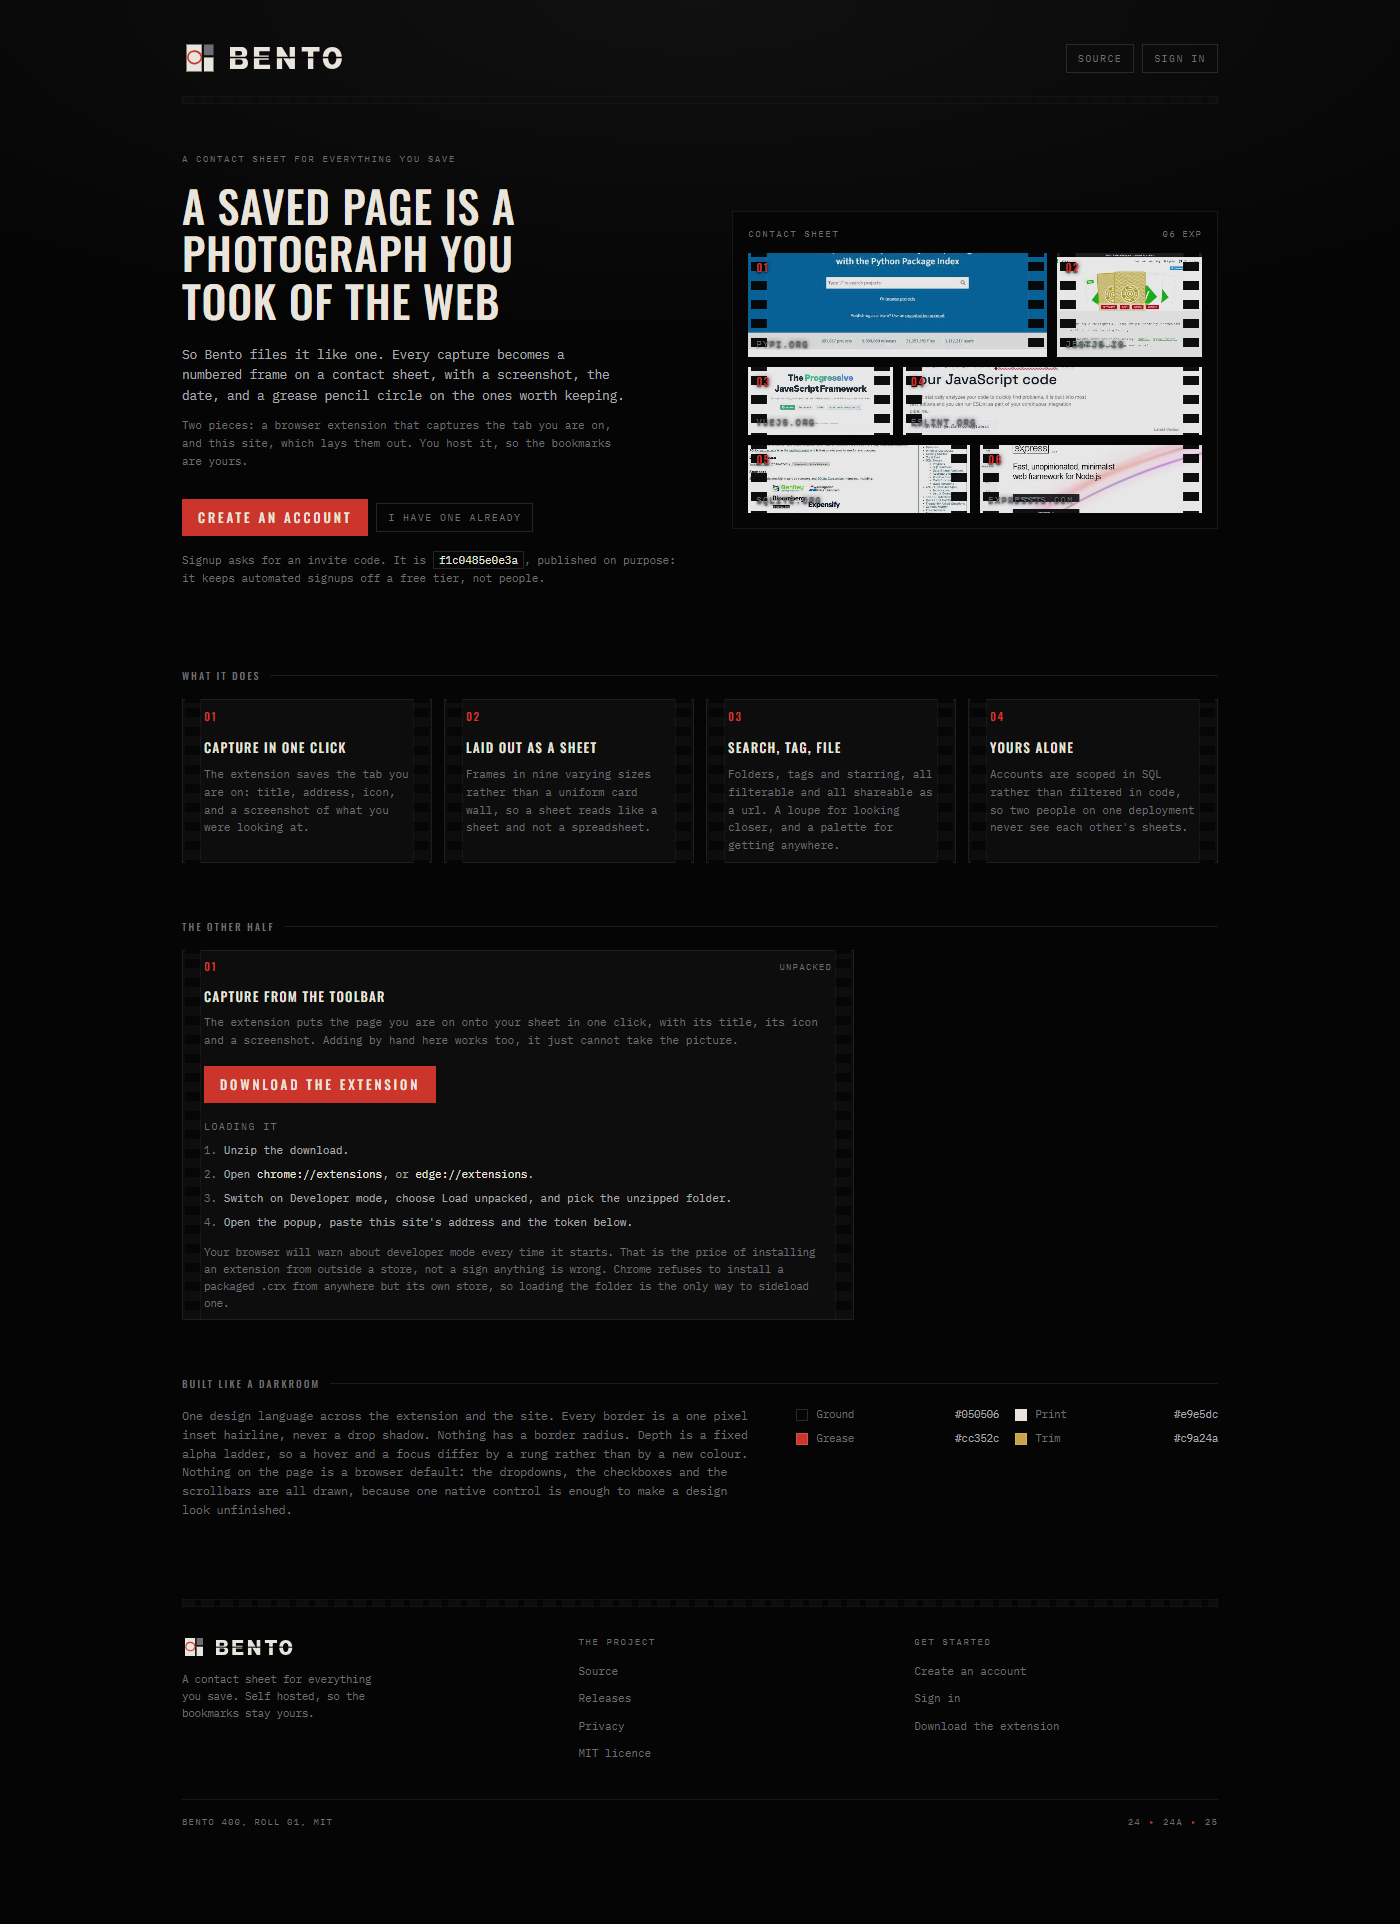
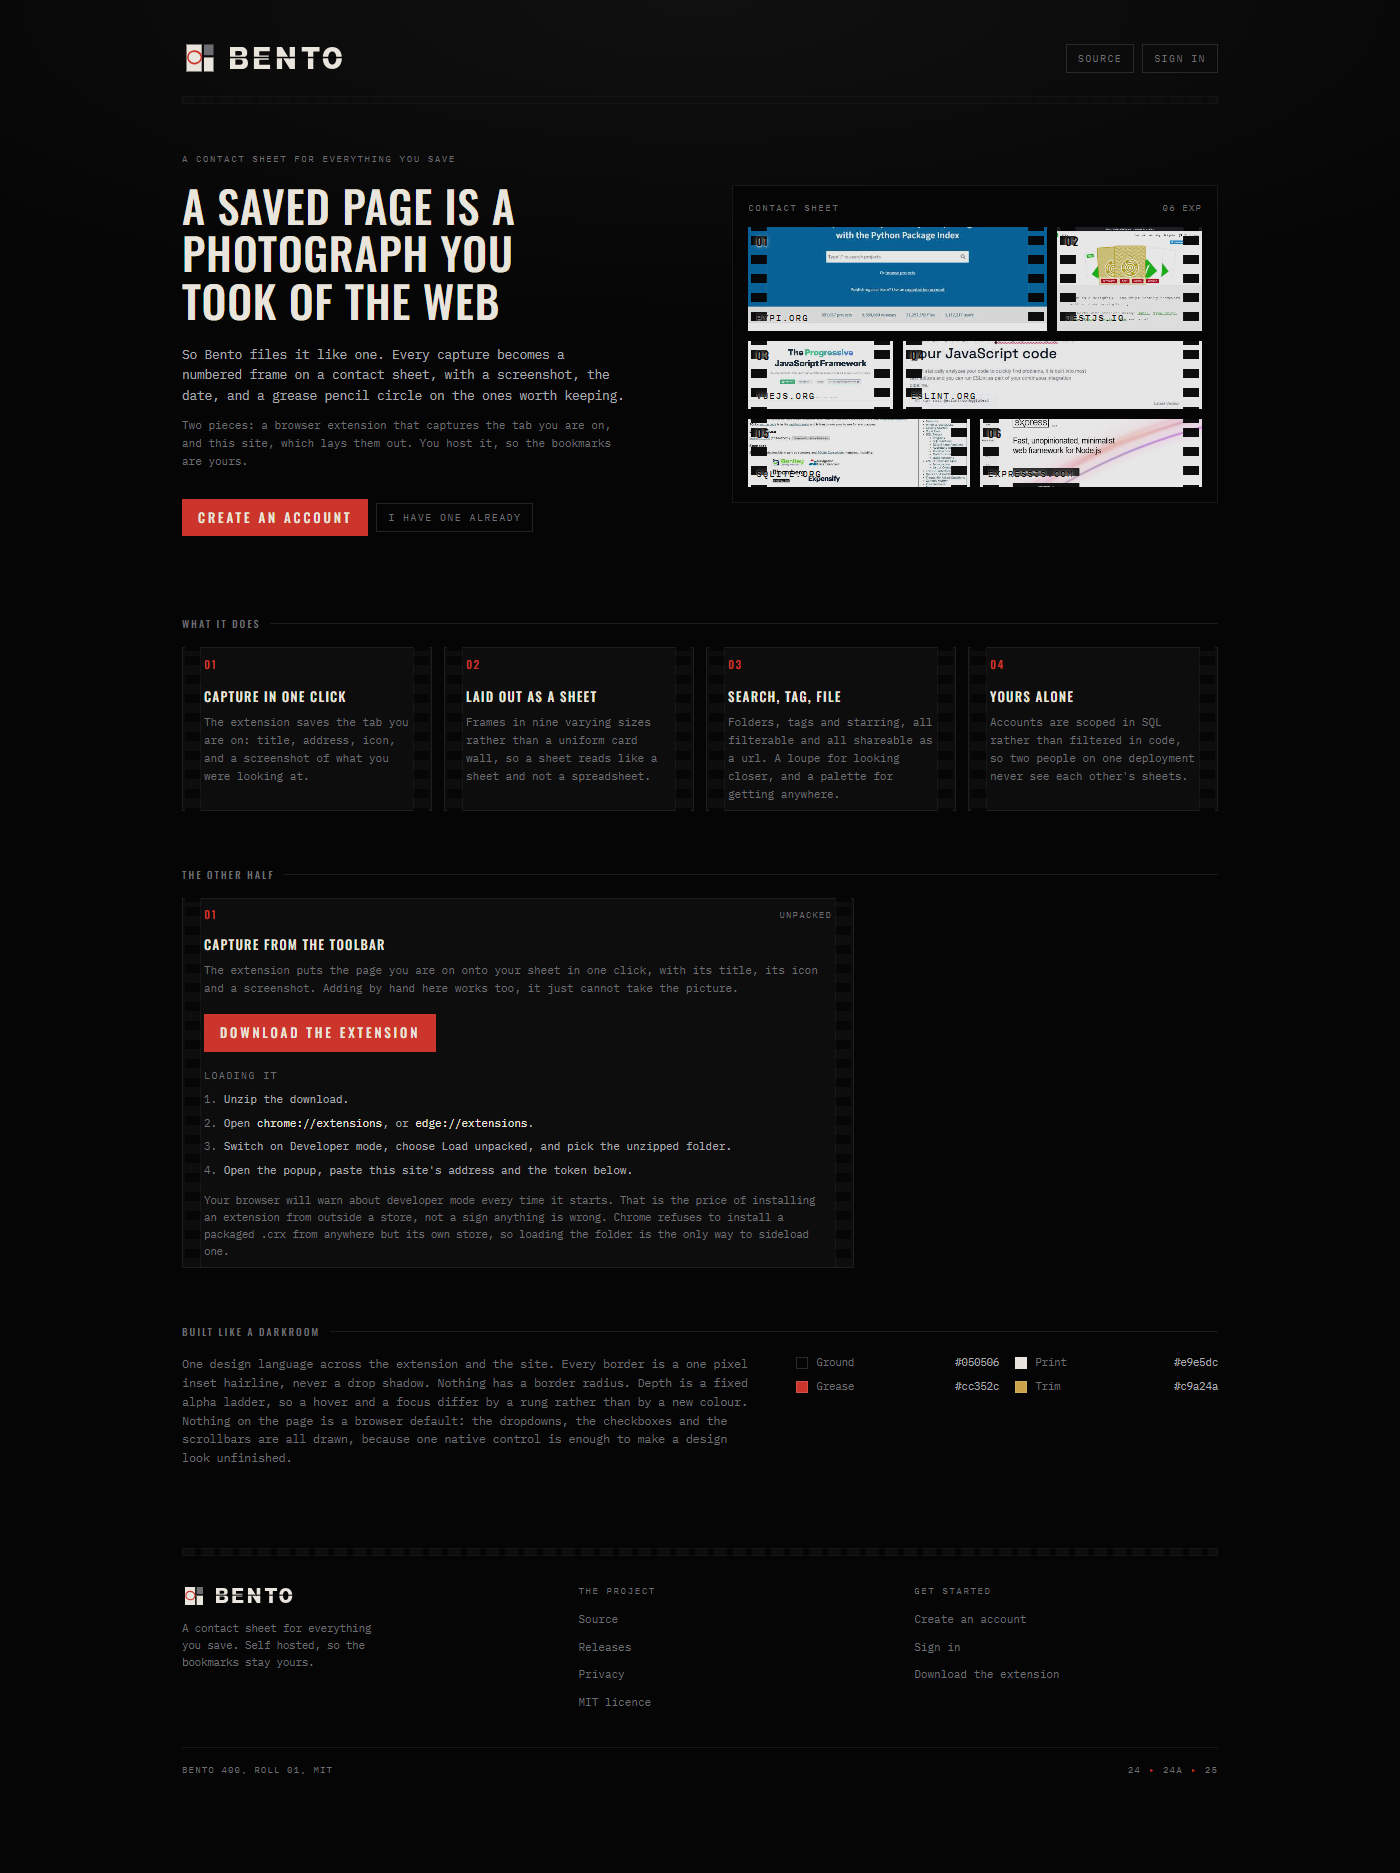
Make the frame number and host label read as black text with a light halo
The grey silver dim and grease red these normally carry were still hard
to read once the scrim came off in the last change, especially against
the lighter half of these eight pages. Switched to a near black colour
with a light halo shadow instead of the dark one, which is the same
caption on a photograph idea, just inverted to suit text that now has
to work against pale backgrounds far more often than dark ones.

The colour needed a compound selector rather than a plain one. .frame-no
and .frame-stamp set their own colour further down the file, and a
plain .shot-label rule at equal specificity would have lost to
whichever comes later, the same shape of bug the plate image fix
guarded against earlier.

Readme screenshots retaken to match. sheet.png did not change, the real
sheet holds its picture back with a different tone and never went
through this path.

diff --git a/website/app/globals.css b/website/app/globals.css
@@ -343,11 +343,24 @@
      for a border or a surface. This is a caption on a photograph, sized to
      the letters rather than to the card, which a solid background band is
      not.
+
+     Dark text here rather than the print cream or grease red .frame-no and
+     .frame-stamp normally carry: every one of these eight pages is light
+     over most of its height, so dark letters are what actually reads against
+     them, with a light halo behind for the odd mid-tone patch a centred crop
+     can still land on. The compound selector is not decoration, .frame-no
+     and .frame-stamp set their own colour further down the file and a plain
+     .shot-label rule at equal specificity would lose to whichever is later.
   */
   .shot-label {
     text-shadow:
-      0 1px 2px rgba(5, 5, 6, 0.95),
-      0 0 5px rgba(5, 5, 6, 0.85);
+      0 1px 2px rgba(233, 229, 220, 0.9),
+      0 0 5px rgba(233, 229, 220, 0.7);
+  }
+
+  .frame-no.shot-label,
+  .frame-stamp.shot-label {
+    color: var(--color-gutter);
   }
 
   /* Same job as .shot-label, for the grease pencil circle on the lock screen,
